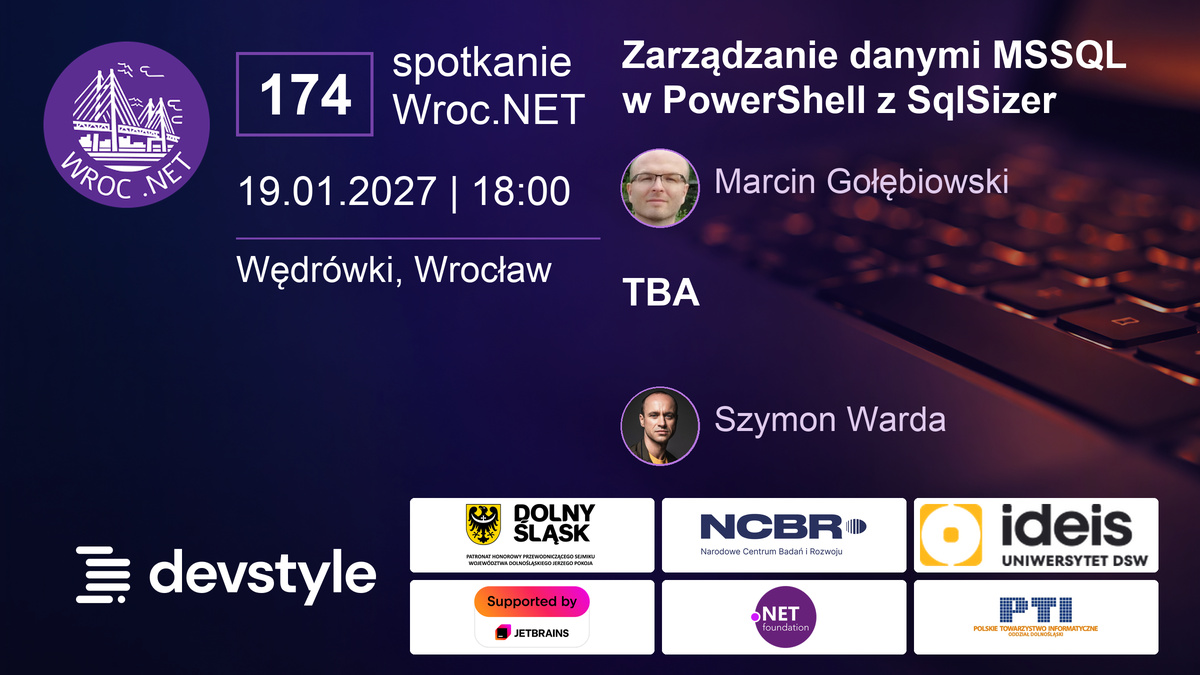
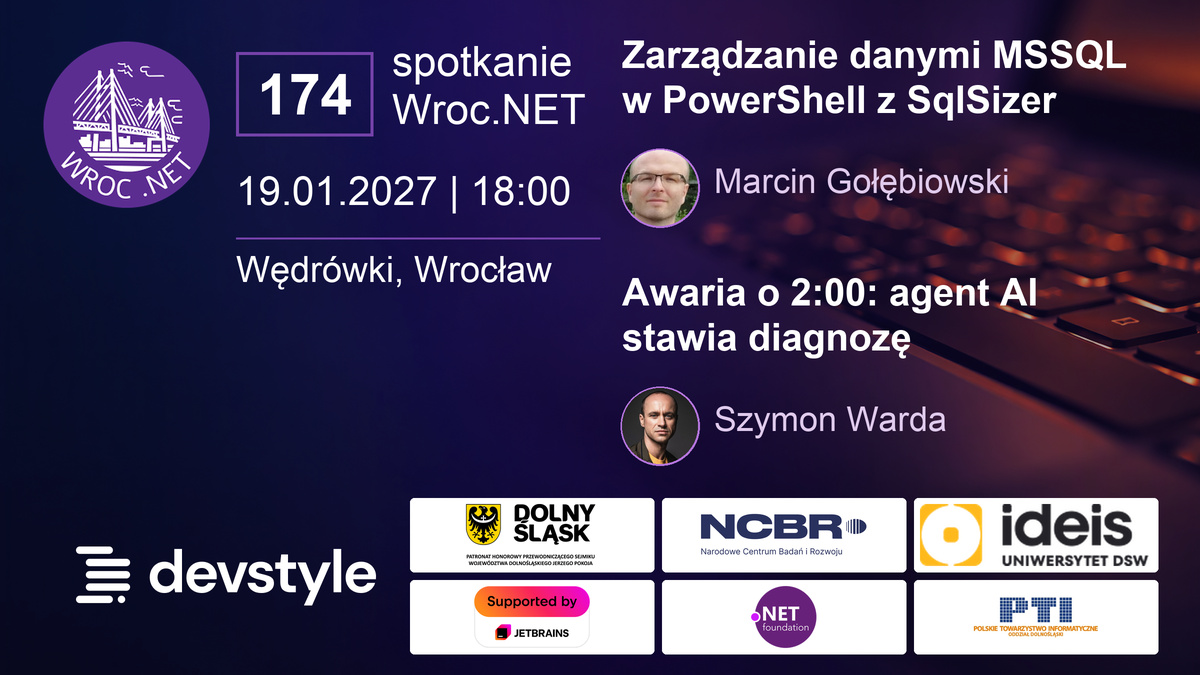
Add session details and discussion panel to meeting 174

Changed region(s): [[0.5242, 0.4044, 0.8633, 0.5289]]

diff --git a/office/generate_meetup_banner.py b/office/generate_meetup_banner.py
@@ -249,7 +249,8 @@ def render(post_path, background_path, output_path):
     if len(sections) != 3 or sections[0].strip():
         raise ValueError("Post must start with YAML front matter")
     post = yaml.safe_load(sections[1])
-    talks = post["talks"]
+    # Sessions without speakers (e.g. an open discussion) stay in the post but not on the banner.
+    talks = [talk for talk in post["talks"] if talk.get("speaker_ids")]
     layout = detect_layout(talks)
     speakers = {person["id"]: person for person in load_yaml(ROOT / "_data/speakers.yml")}
     venue = load_yaml(ROOT / "_data/location.yml")["venue"]

diff --git a/office/WORKFLOWS.md b/office/WORKFLOWS.md
@@ -46,7 +46,7 @@ To jedyne miejsce na zasady i warsztat tworzenia banerów. Pozostałe dokumenty 
 ### Banery wydarzeń: generowanie i publikacja
 
 - Wzorzec: [baner 172](../assets/images/2026-11-17-172-meetup.jpg), [zapisane tło AI](content/images/2026-11-17-172-meetup-background.png) i [generator](generate_meetup_banner.py). Tło powstało w Azure Foundry przez MAI-Image-2.5, bez przesyłania portretów i logotypów.
-- Jeden wspólny generator rozpoznaje układ z `talks[].speaker_ids`: `solo_panel` to prelekcja jednej osoby i panel trzech osób (172), a `two_talks` to dwie prelekcje jednoosobowe albo prelekcja jednej osoby oraz prelekcja dwóch osób w dowolnej kolejności (173). Generator zachowuje kolejność `talks` z posta. Po jej zmianie przestaw także opisy i bio w treści posta, tematy i nazwiska w tytule oraz alt baneru, a następnie odśwież obie kopie grafiki. Inne układy kończą się błędem. Rozszerzaj ten generator, nie twórz kopii dla kolejnego numeru spotkania. Wymagany jest jeden partner strategiczny; wspierających może być od 1 do 12 (po pominięciu patronów medialnych, patrz niżej). W `solo_panel` dla dokładnie pięciu zachowany jest układ historyczny, w pozostałych przypadkach (`partner_positions`) logotypy trafiają do siatki 3 kolumn pod mniejszym logo strategicznym. Poza patronami medialnymi nie pomijaj logotypów ani osób. Kadry portretów są przypisane do identyfikatorów osób, nie numerów spotkań.
+- Jeden wspólny generator rozpoznaje układ z `talks[].speaker_ids`: `solo_panel` to prelekcja jednej osoby i panel trzech osób (172), a `two_talks` to dwie prelekcje jednoosobowe albo prelekcja jednej osoby oraz prelekcja dwóch osób w dowolnej kolejności (173). Generator zachowuje kolejność `talks` z posta. Sesje bez `speaker_ids` (np. otwarty panel z uczestnikami) są w poście, ale nie na banerze. Po jej zmianie przestaw także opisy i bio w treści posta, tematy i nazwiska w tytule oraz alt baneru, a następnie odśwież obie kopie grafiki. Inne układy kończą się błędem. Rozszerzaj ten generator, nie twórz kopii dla kolejnego numeru spotkania. Wymagany jest jeden partner strategiczny; wspierających może być od 1 do 12 (po pominięciu patronów medialnych, patrz niżej). W `solo_panel` dla dokładnie pięciu zachowany jest układ historyczny, w pozostałych przypadkach (`partner_positions`) logotypy trafiają do siatki 3 kolumn pod mniejszym logo strategicznym. Poza patronami medialnymi nie pomijaj logotypów ani osób. Kadry portretów są przypisane do identyfikatorów osób, nie numerów spotkań.
 - W `two_talks` obie prelekcje mają równorzędne, jednakowej wysokości bloki oraz tytuły tej samej wielkości i grubości. Sesje umieszczaj bezpośrednio na wspólnym tle, bez prostokątnych ramek i jednolitych paneli, jak na banerze 172; rozdzielaj je odstępem. Nie dotyczy to ramki numeru spotkania ani białych pól logotypów partnerów. Nie wyróżniaj pierwszej jako głównej bez potwierdzonego powodu. Generator wymaga minimum 10 px dla każdego napisu przy podglądzie szerokości 358 px (baner na ekranie 390 px), czyli obecnie fontu co najmniej 34 px w pliku 1200 px. Długi tytuł lub nazwisko ma zakończyć generowanie błędem, zamiast wymuszać pomniejszenie tekstu. Logo partnera to obraz, nie tekst objęty tą kontrolą. Historyczny układ 172 pozostaje bez zmian; jego poprawny eksport nie dowodzi czytelności nowych układów.
 - Nie pokazuj szarej sylwetki jako portretu na finalnym banerze. W `two_talks` brak `photo` lub wskazanie `placeholder` daje jawny komunikat i blok tekstowy z nazwiskiem, bez wymyślania twarzy. Błędna ścieżka do rzeczywistego zdjęcia nadal przerywa generowanie; nie jest traktowana jak potwierdzony brak portretu.
 - Partner strategiczny ma wyraźnie większe logo niż wspierający. W `two_talks` (173) na dole jest pas: po lewej logo strategiczne (do 300 px szerokości), po prawej logotypy wspierających w dwóch rzędach na białych polach. Generator pomija patronów medialnych (`role: Patron medialny`) w każdym układzie, więc ponowne renderowanie 172 też ich nie pokaże; na stronie nadal są widoczni. W `solo_panel` (172) logo strategiczne jest wyśrodkowane w lewej części baneru, a pod nim patroni na białych polach: przy pięciu pionowy znak Wrocławskiego Portalu po lewej i pozostałe cztery w siatce 2×2, przy innej liczbie równa siatka 3 kolumn, w kolejności z `partners.yml`. Zachowuj oryginalne kolory patronów i oznaczenie Oddziału Dolnośląskiego PTI. Przed kolejnym wydarzeniem potwierdź udział partnerów — generator czyta bieżącą bazę, nie osobną listę dla wydarzenia.

diff --git a/_posts/2027-01-19-174-spotkanie-wroclawskiej-grupy-net.md b/_posts/2027-01-19-174-spotkanie-wroclawskiej-grupy-net.md
@@ -1,5 +1,5 @@
 ---
-title: '174\. spotkanie Wroc.NET - SqlSizer w PowerShell (Gołębiowski, Warda)'
+title: '174\. spotkanie Wroc.NET - SqlSizer i agenci AI w SRE (Gołębiowski, Warda)'
 date: 2027-01-19
 time: "18:00:00"
 categories: spotkania
@@ -9,15 +9,17 @@ meetup_attendees: 0
 header:
   image: /assets/images/2027-01-19-174-meetup.jpg
   teaser: /assets/images/2027-01-19-174-meetup.jpg
-  image_description: "Baner 174. spotkania Wroc.NET: Marcin Gołębiowski - SqlSizer w PowerShell; Szymon Warda - temat wkrótce"
+  image_description: "Baner 174. spotkania Wroc.NET: Marcin Gołębiowski - SqlSizer w PowerShell; Szymon Warda - agent AI diagnozuje awarię"
 talks:
 - title: 'Microsoft SQL database data management in PowerShell with SqlSizer'
   banner_title: 'Zarządzanie danymi MSSQL w PowerShell z SqlSizer'
   speaker_ids:
   - marcin-golebiowski
-- title: 'TBA'
+- title: 'Awaria o 2:00 w nocy: agent AI stawia diagnozę, zanim ktokolwiek odbierze telefon'
+  banner_title: 'Awaria o 2:00: agent AI stawia diagnozę'
   speaker_ids:
   - szymon-warda
+- title: 'Panel dyskusyjny z uczestnikami'
 ---
 
 174\. spotkanie Wrocławskiej Grupy .NET odbędzie się 19.01.2027 r. o **18:00** w **Wędrówkach, ul. Podwale 37/38, 50-040 Wrocław**.
@@ -26,7 +28,7 @@ talks:
 
 {% include talk.html index=0 %}
 
-Podczas prezentacji przedstawię jakie problemy mogą wystąpić podczas pracy z dużymi bazami danych MSSQL i jak SqlSizer (PowerShell module) może pomóc je rozwiązać.
+Podczas prezentacji przedstawię, jakie problemy mogą wystąpić podczas pracy z dużymi bazami danych MSSQL i jak SqlSizer (PowerShell module) może pomóc je rozwiązać.
 
 **{% include speaker.html id="marcin-golebiowski" %}**
 
@@ -34,8 +36,14 @@ Programista .NET z dłuższym stażem. Aktualnie rozwija i utrzymuje systemy ban
 
 {% include talk.html index=1 %}
 
-Tytuł i opis prezentacji zostaną ogłoszone wkrótce.
+Jest 2:00 w nocy, system przestaje działać. Zanim ktokolwiek odbierze telefon, agent AI ma już diagnozę. Co musi się wydarzyć, żeby taki scenariusz zadziałał?
+
+Porozmawiamy o observability i o tym, jak poprawnie ułożyć wielu agentów do zadań SRE. Sprawdzimy też, jak zarządzać audytowalnością ich pracy. Na koniec policzymy, ile to kosztuje i co właściwie daje.
 
 **{% include speaker.html id="szymon-warda" %}**
 
 Szymon Warda jest współzałożycielem Protopii. Jako Managing Partner i Technology Advisor doradza firmom w doborze technologii i strategii IT. Zajmuje się systemami rozproszonymi, które przetwarzają duże ilości danych, modelowaniem danych i ewolucyjnym podejściem do architektury. Specjalizuje się w observability i FinOps, czyli w tym, żeby zespół widział, co dzieje się w systemie i ile to kosztuje. Od 2026 roku należy do programu Grafana Champions. Razem z Łukaszem Kałużnym prowadzi podcast Patoarchitekci, w którym od 2019 roku rozmawiają o architekturze IT.
+
+{% include talk.html index=2 %}
+
+Na zakończenie zapraszamy uczestników spotkania do wspólnej dyskusji.
